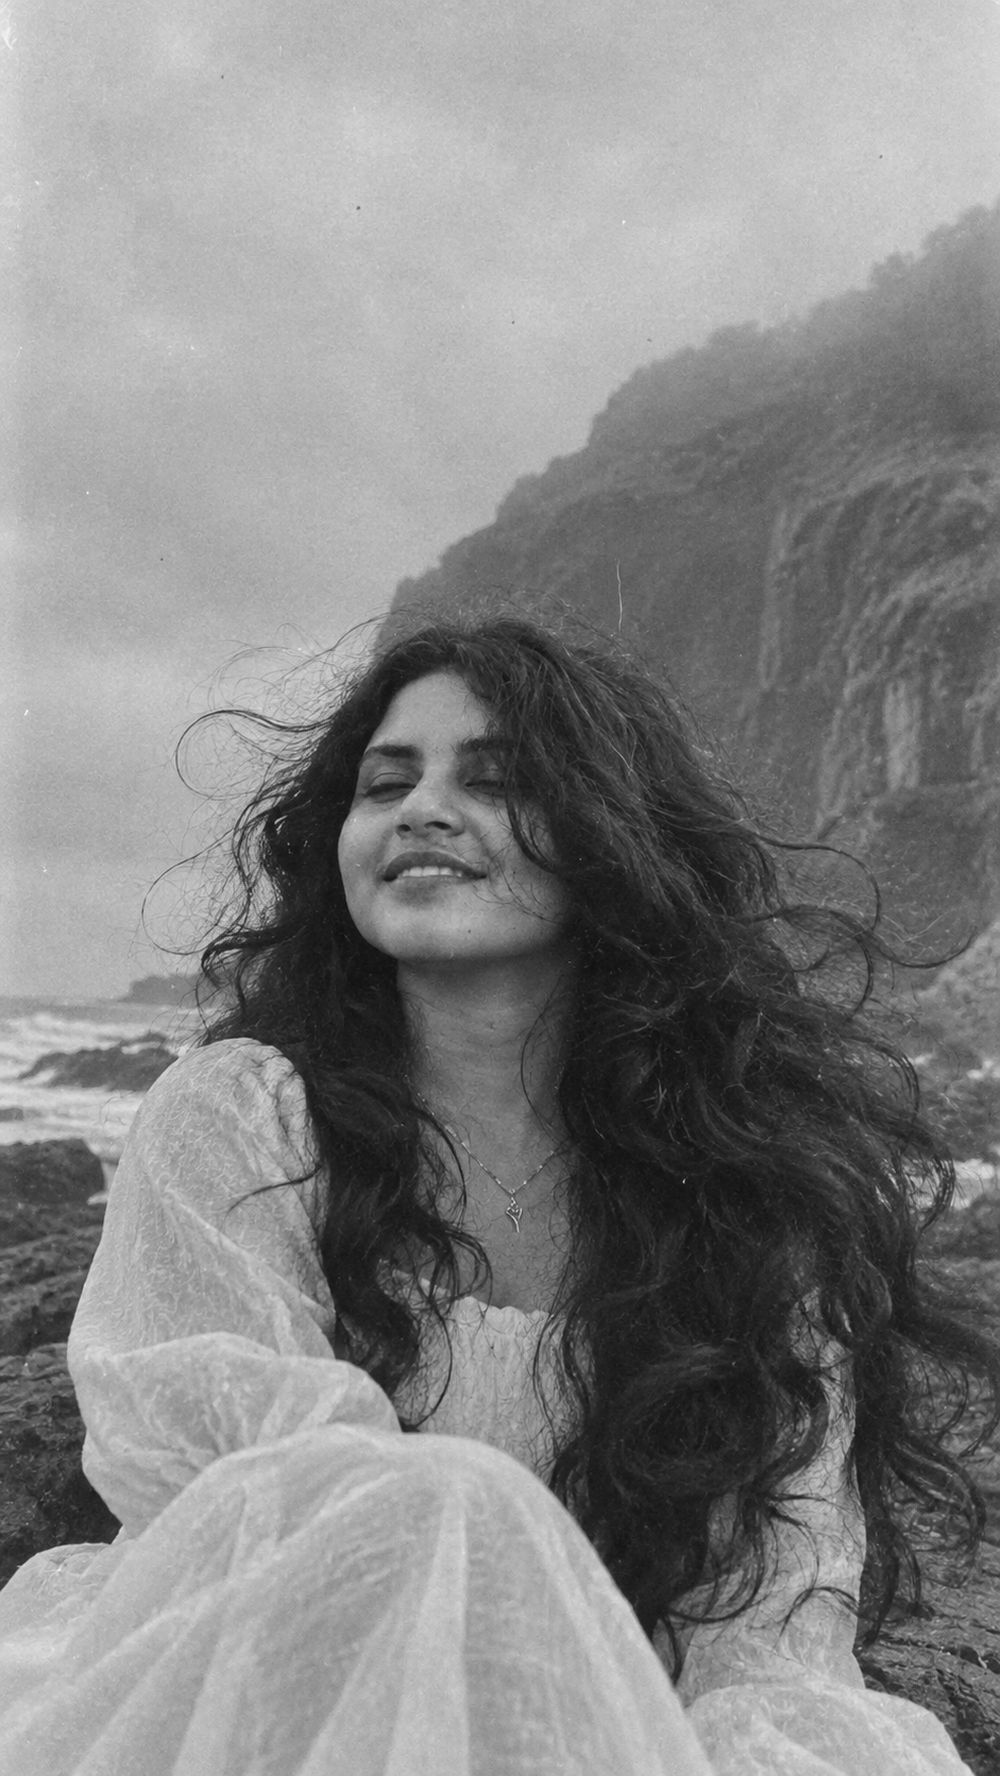
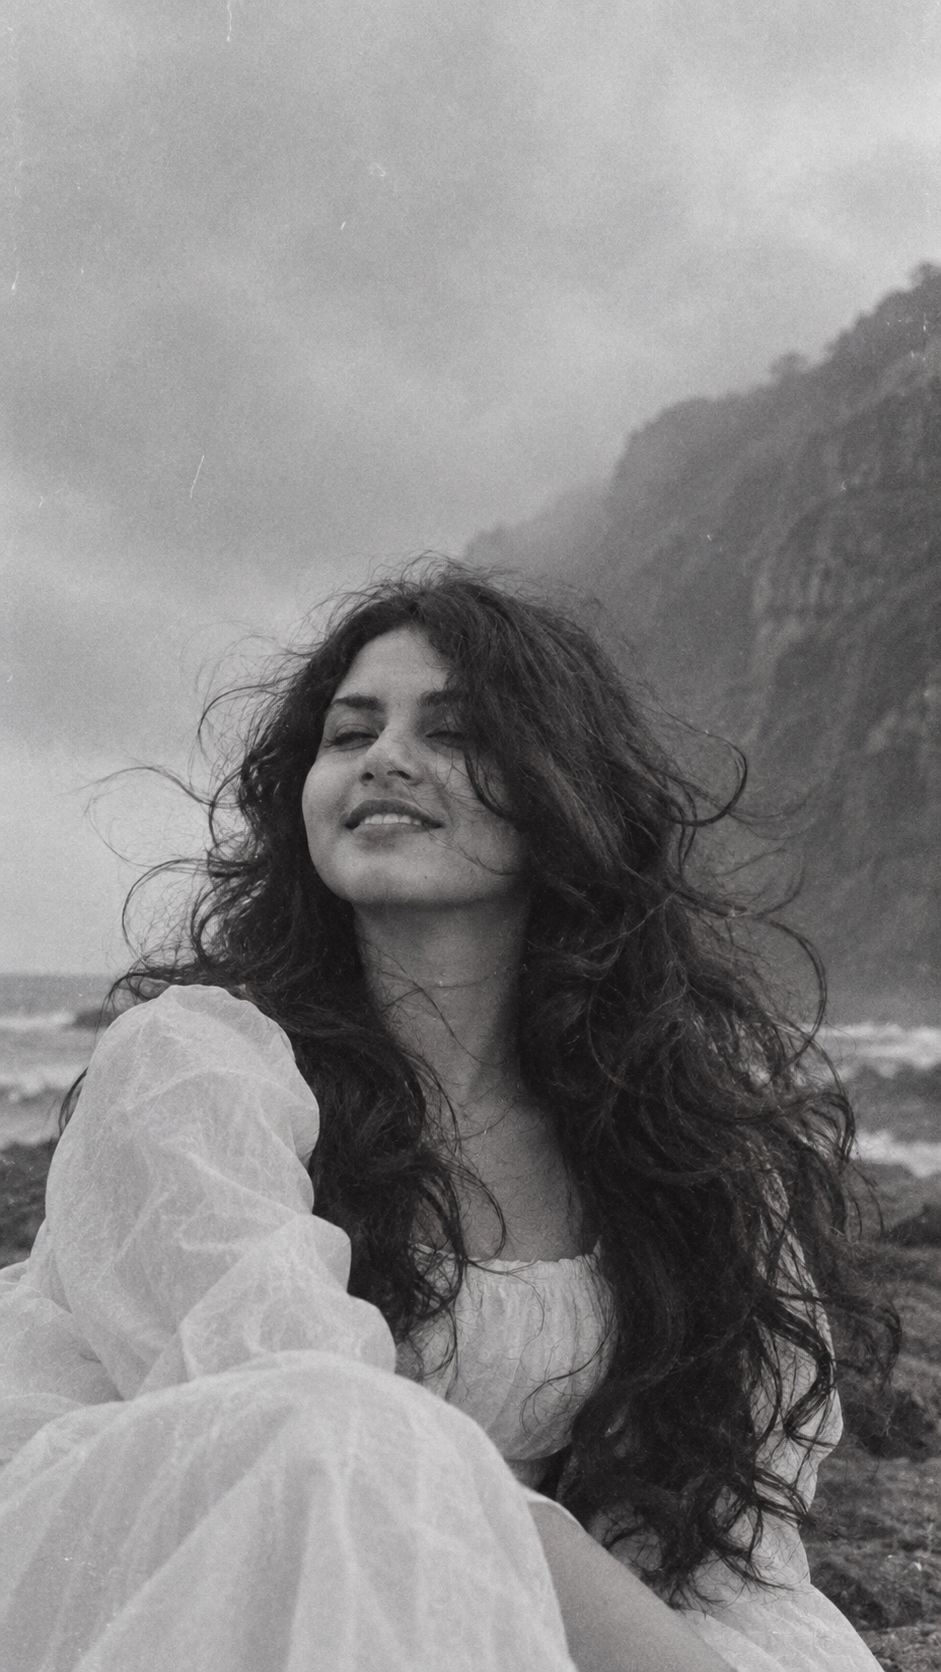
bg

diff --git a/src/data/portfolio.ts b/src/data/portfolio.ts
@@ -8,7 +8,7 @@ export const profile = {
   photo: "/portrait.jpg",
   photoAlt: "Jisna smiling with her eyes closed, hair in the wind, seated by a misty coastal cliff",
   // Contact section picture. Put the file in public/ and set the path, e.g. "/contact.jpg" (4:5, at least 704 x 880).
-  contactPhoto: "" as string,
+  contactPhoto: "/contacts.jpg" as string,
   contactPhotoAlt: "Portrait of Jisna",
   resume: "/Jisna_P_J_React_Developer_Resume.pdf",
 } as const;

diff --git a/src/components/Contact.tsx b/src/components/Contact.tsx
@@ -89,7 +89,7 @@ export default function Contact() {
                 )}
               </div>
               <p className="max-w-xs pb-1 text-lg leading-[1.7] text-ink-2">
-                Tell me about the role or project and I will reply by email.
+                Tell me about the role or project!!!!.
               </p>
             </div>
             <ul className="mt-8 divide-y divide-line border-y border-line">
